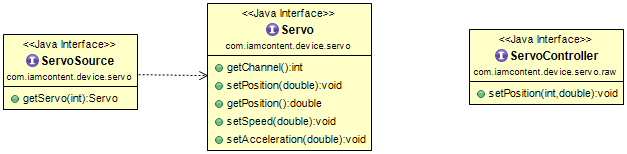
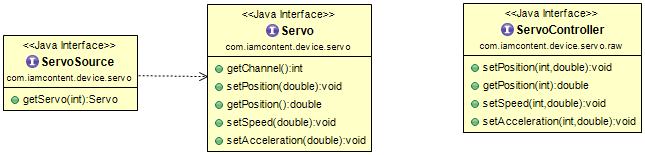
Add setSpeed() & setAcceleration() methods.

diff --git a/public-java/devices/iamcontent-pololu-servo-controllers/src/main/java/com/iamcontent/device/controller/pololu/PololuMaestroUsbServoCard.java b/public-java/devices/iamcontent-pololu-servo-controllers/src/main/java/com/iamcontent/device/controller/pololu/PololuMaestroUsbServoCard.java
@@ -38,6 +38,7 @@ public class PololuMaestroUsbServoCard implements ServoController {
 	public static final short VENDOR_ID = 0x1ffb;
 	public static final short MICRO_MAESTRO_PRODUCT_ID = 0x0089;
 	
+	private static final byte REQUEST_SET_SERVO_VARIABLE = (byte)0x84;
 	private static final byte REQUEST_SET_TARGET = (byte)0x85;
 	
 	private final EasyUsbDevice device;
@@ -70,21 +71,40 @@ public class PololuMaestroUsbServoCard implements ServoController {
 		this.device = eased(device);
 	}
 
-	/**
-	 * Sets the raw position value of a specific servo.
-	 * @param channel The channel number of the servo.
-	 * @param value The raw position value.
-	 */
-	public void setTarget(short channel, short value) {
-		device.syncSubmit(request(REQUEST_SET_TARGET, channel, value));
+	@Override
+	public void setPosition(int channel, double value) {
+		setRawPosition((short)channel, (short)value);
 	}
-
-	protected UsbControlIrp request(byte request, short index, short value) {
-		return device.createUsbControlIrp(REQUESTTYPE_TYPE_VENDOR, request, value, index);
+	
+	public void setRawPosition(short channel, short position) {
+		device.syncSubmit(request(REQUEST_SET_TARGET, channel, position));
 	}
 
 	@Override
-	public void setPosition(int channel, double value) {
-		setTarget((short)channel, (short)value);
+	public double getPosition(int channel) {
+		// TODO getPosition() not implemented yet
+		return 0;
+	}
+
+	@Override
+	public void setSpeed(int channel, double speed) {
+		setRawSpeed((short)channel, (short)speed);
+	}
+
+	public void setRawSpeed(short channel, short speed) {
+		device.syncSubmit(request(REQUEST_SET_SERVO_VARIABLE, channel, speed));
+	}
+	
+	@Override
+	public void setAcceleration(int channel, double acceleration) {
+		setRawAcceleration((short)channel, (short)acceleration);
+	}
+	
+	public void setRawAcceleration(short channel, short acceleration) {
+		device.syncSubmit(request(REQUEST_SET_SERVO_VARIABLE, channel, (short)(acceleration | 0x80)));
+	}
+	
+	protected UsbControlIrp request(byte request, short index, short value) {
+		return device.createUsbControlIrp(REQUESTTYPE_TYPE_VENDOR, request, value, index);
 	}
 }

diff --git a/public-java/devices/iamcontent-servo-support/src/main/java/com/iamcontent/device/servo/raw/RawServo.java b/public-java/devices/iamcontent-servo-support/src/main/java/com/iamcontent/device/servo/raw/RawServo.java
@@ -1,7 +1,29 @@
+/**
+  IAmContent Public Libraries.
+  Copyright (C) 2015 Greg Elderfield
+  @author Greg Elderfield, iamcontent@jarchitect.co.uk
+ 
+  This program is free software; you can redistribute it and/or modify it under the terms of the
+  GNU General Public License as published by the Free Software Foundation; either version 2 of 
+  the License, or (at your option) any later version.
+
+  This program is distributed in the hope that it will be useful, but WITHOUT ANY WARRANTY;
+  without even the implied warranty of MERCHANTABILITY or FITNESS FOR A PARTICULAR PURPOSE.
+  See the GNU General Public License for more details.
+
+  You should have received a copy of the GNU General Public License along with this program;
+  if not, write to the Free Software Foundation, Inc., 
+  51 Franklin Street, Fifth Floor, Boston, MA 02110-1301 USA.
+ */
 package com.iamcontent.device.servo.raw;
 
 import com.iamcontent.device.servo.Servo;
 
+/**
+ * A {@link Servo} that directly delegates its operations to a {@link ServoController} without altering the
+ * arguments of the operations.
+ * @author Greg Elderfield
+ */
 public class RawServo implements Servo {
 	
 	private final ServoController controller;
@@ -24,17 +46,16 @@ public class RawServo implements Servo {
 
 	@Override
 	public double getPosition() {
-		// TODO Auto-generated method stub
-		return 0;
+		return controller.getPosition(channel);
 	}
 
 	@Override
 	public void setSpeed(double speed) {
-		// TODO Auto-generated method stub
+		controller.setSpeed(channel, speed);
 	}
 
 	@Override
 	public void setAcceleration(double acceleration) {
-		// TODO Auto-generated method stub
+		controller.setAcceleration(channel, acceleration);
 	}
 }

diff --git a/public-java/devices/iamcontent-servo-support/src/main/java/com/iamcontent/device/servo/normal/NormalServo.java b/public-java/devices/iamcontent-servo-support/src/main/java/com/iamcontent/device/servo/normal/NormalServo.java
@@ -32,7 +32,7 @@ public class NormalServo implements Servo {
 	public static final double MIN = 0.0;
 	public static final double MAX = 1.0;
 	
-	private static final double MIN_TARGET = 4000;
+	private static final double MIN_TARGET = 4000; // TODO min/max range should be per servo.
 	private static final double MAX_TARGET = 8000;
 	
 
@@ -58,8 +58,7 @@ public class NormalServo implements Servo {
 
 	@Override
 	public double getPosition() {
-		// TODO Auto-generated method stub
-		return 0;
+		return fromDelegateValue(servo.getPosition(), MIN_TARGET, MAX_TARGET);
 	}
 	
 	@Override
@@ -72,8 +71,12 @@ public class NormalServo implements Servo {
 		// TODO Auto-generated method stub
 	}
 	
-	private double toDelegateValue(double value, final double delegateMin, final double delegateMax) {
+	private double toDelegateValue(double value, double delegateMin, double delegateMax) {
 		return linearConvert(normal(value), MIN, MAX, delegateMin, delegateMax);
+	}
+	
+	private double fromDelegateValue(double value, double delegateMin, double delegateMax) {
+		return normal(linearConvert(value, delegateMin, delegateMax, MIN, MAX));
 	}
 
 	private static double normal(double value) {

diff --git a/public-java/devices/iamcontent-servo-support/src/main/java/com/iamcontent/device/servo/raw/ServoController.java b/public-java/devices/iamcontent-servo-support/src/main/java/com/iamcontent/device/servo/raw/ServoController.java
@@ -23,4 +23,7 @@ package com.iamcontent.device.servo.raw;
  */
 public interface ServoController {
 	void setPosition(int channel, double value);
+	double getPosition(int channel);
+	void setSpeed(int channel, double speed);
+	void setAcceleration(int channel, double acceleration);
 }
